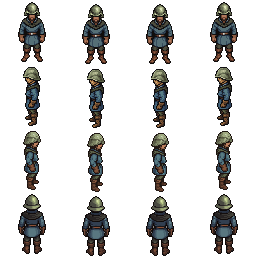
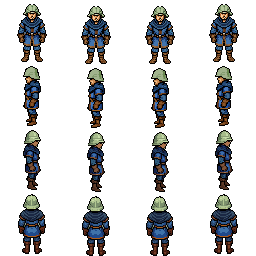
Swap the Warrior for a stockier 64px version
Converted from Qiang's bulkier pixel turnaround (navy scarf, royal-blue
tunic with brown trim) with PixelLab image_to_pixelart at 64x64, same
pipeline as before; the thinner version didn't sit well beside the map and
the slime.

Claude-Session: https://claude.ai/code/session_01A4Rh9CevvaR4vh4gfsctrL

diff --git a/.claude/skills/tileset/units-catalog.md b/.claude/skills/tileset/units-catalog.md
@@ -20,16 +20,17 @@ the pack's.
 
 - `Warrior_02` is the warrior class's art (`UNIT_SPRITES.warrior`, also
   `DEFAULT_UNIT_SPRITE`). It is now **64px art** (256x256 sheets, `frame: 64`),
-  replacing the 32px recreation described in this section: a foot soldier in
-  a sage-green kettle helmet, dark grey-green hood, slate-blue tunic with a
-  brown belt and silver buckle, brown gloves and boots, olive trousers. No
-  weapon shows. Four stills made from Qiang's stylized pixel turnaround with
-  PixelLab `image_to_pixelart` at 64x64 (faithful, strength 120; east from its
-  own view, not mirrored), the front's belt buckle recolored silver by hand (the face is meant to stay hidden in the helmet's shadow) (process
-  in the project files at `art/warrior-64/out-v2/notes.md`, finals in
-  `art/warrior-64/final/`). Assembled by `scripts/assemble-unit-sheet.js`;
-  footprint x 18–45, y 2–61, feet on y 61, so it has only 2px of headroom and
-  idle sinks 2px and move hops 2px (not 4).
+  replacing the 32px recreation described in this section: a stocky foot
+  soldier in a sage-green kettle helmet, navy hood and scarf, royal-blue tunic
+  with brown trim, brown belt with a silver buckle, brown gloves and boots,
+  blue trousers. No weapon shows; the face stays in the helmet's shadow. Four
+  stills made from Qiang's third, bulkier pixel turnaround with PixelLab
+  `image_to_pixelart` at 64x64 (faithful, strength 120; east from its own view,
+  not mirrored), helmets pulled to one sage and the buckle recolored silver
+  (process in the project files at `art/warrior-64/`, finals in `out-v3/`).
+  Assembled by `scripts/assemble-unit-sheet.js`; footprint about x 17–46,
+  y 2–61, feet on y 61, so it has only 2px of headroom and idle sinks 2px and
+  move hops 2px (not 4).
 - `Amazon_01` is the archer class's art (`UNIT_SPRITES.archer`, replacing
   `Archer_02`): a woman with a big blonde mane and a green headband, light
   blue top, white short skirt, bare tan arms and legs, green boots. No weapon
